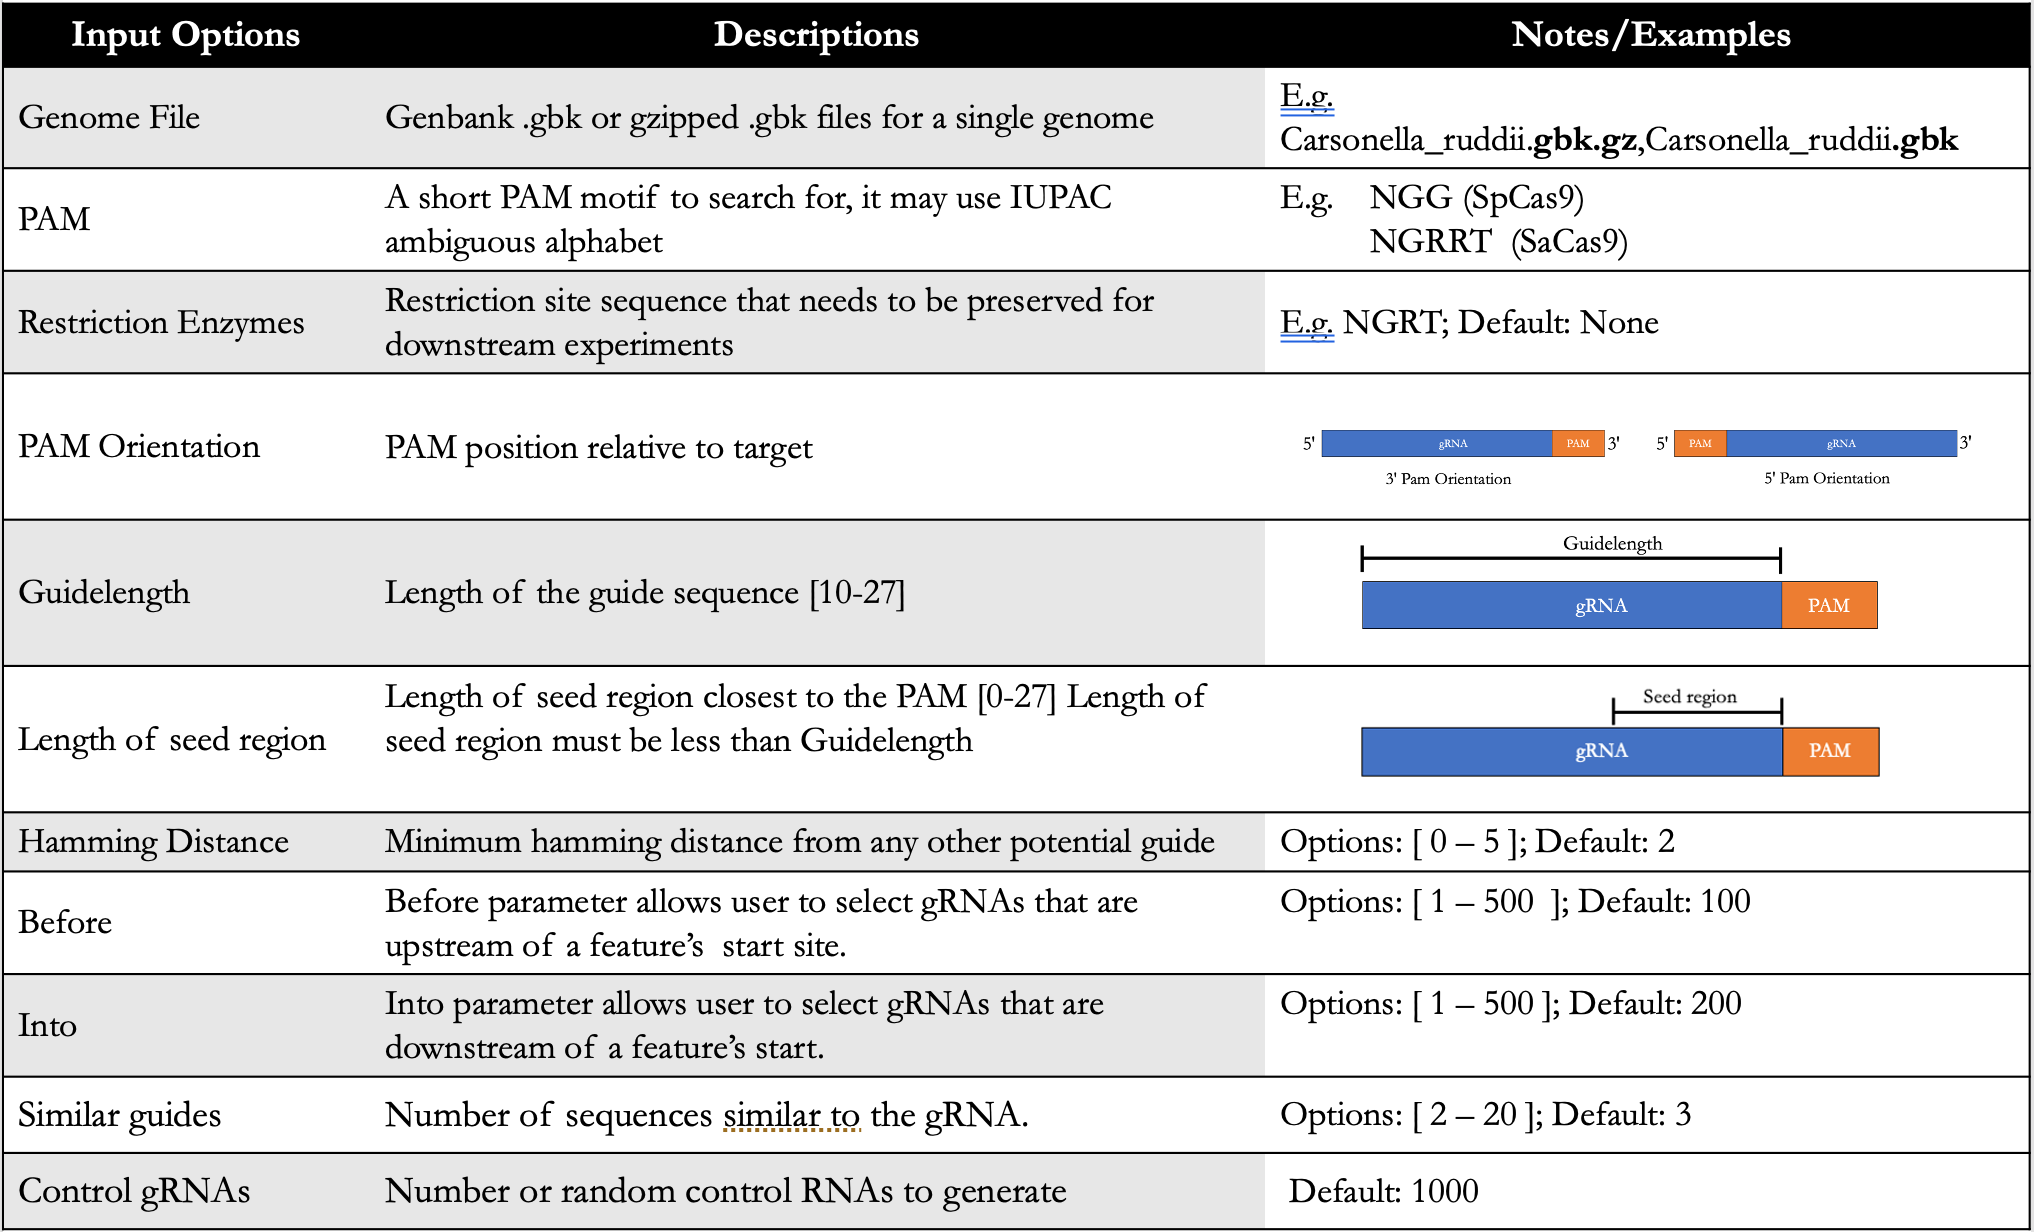
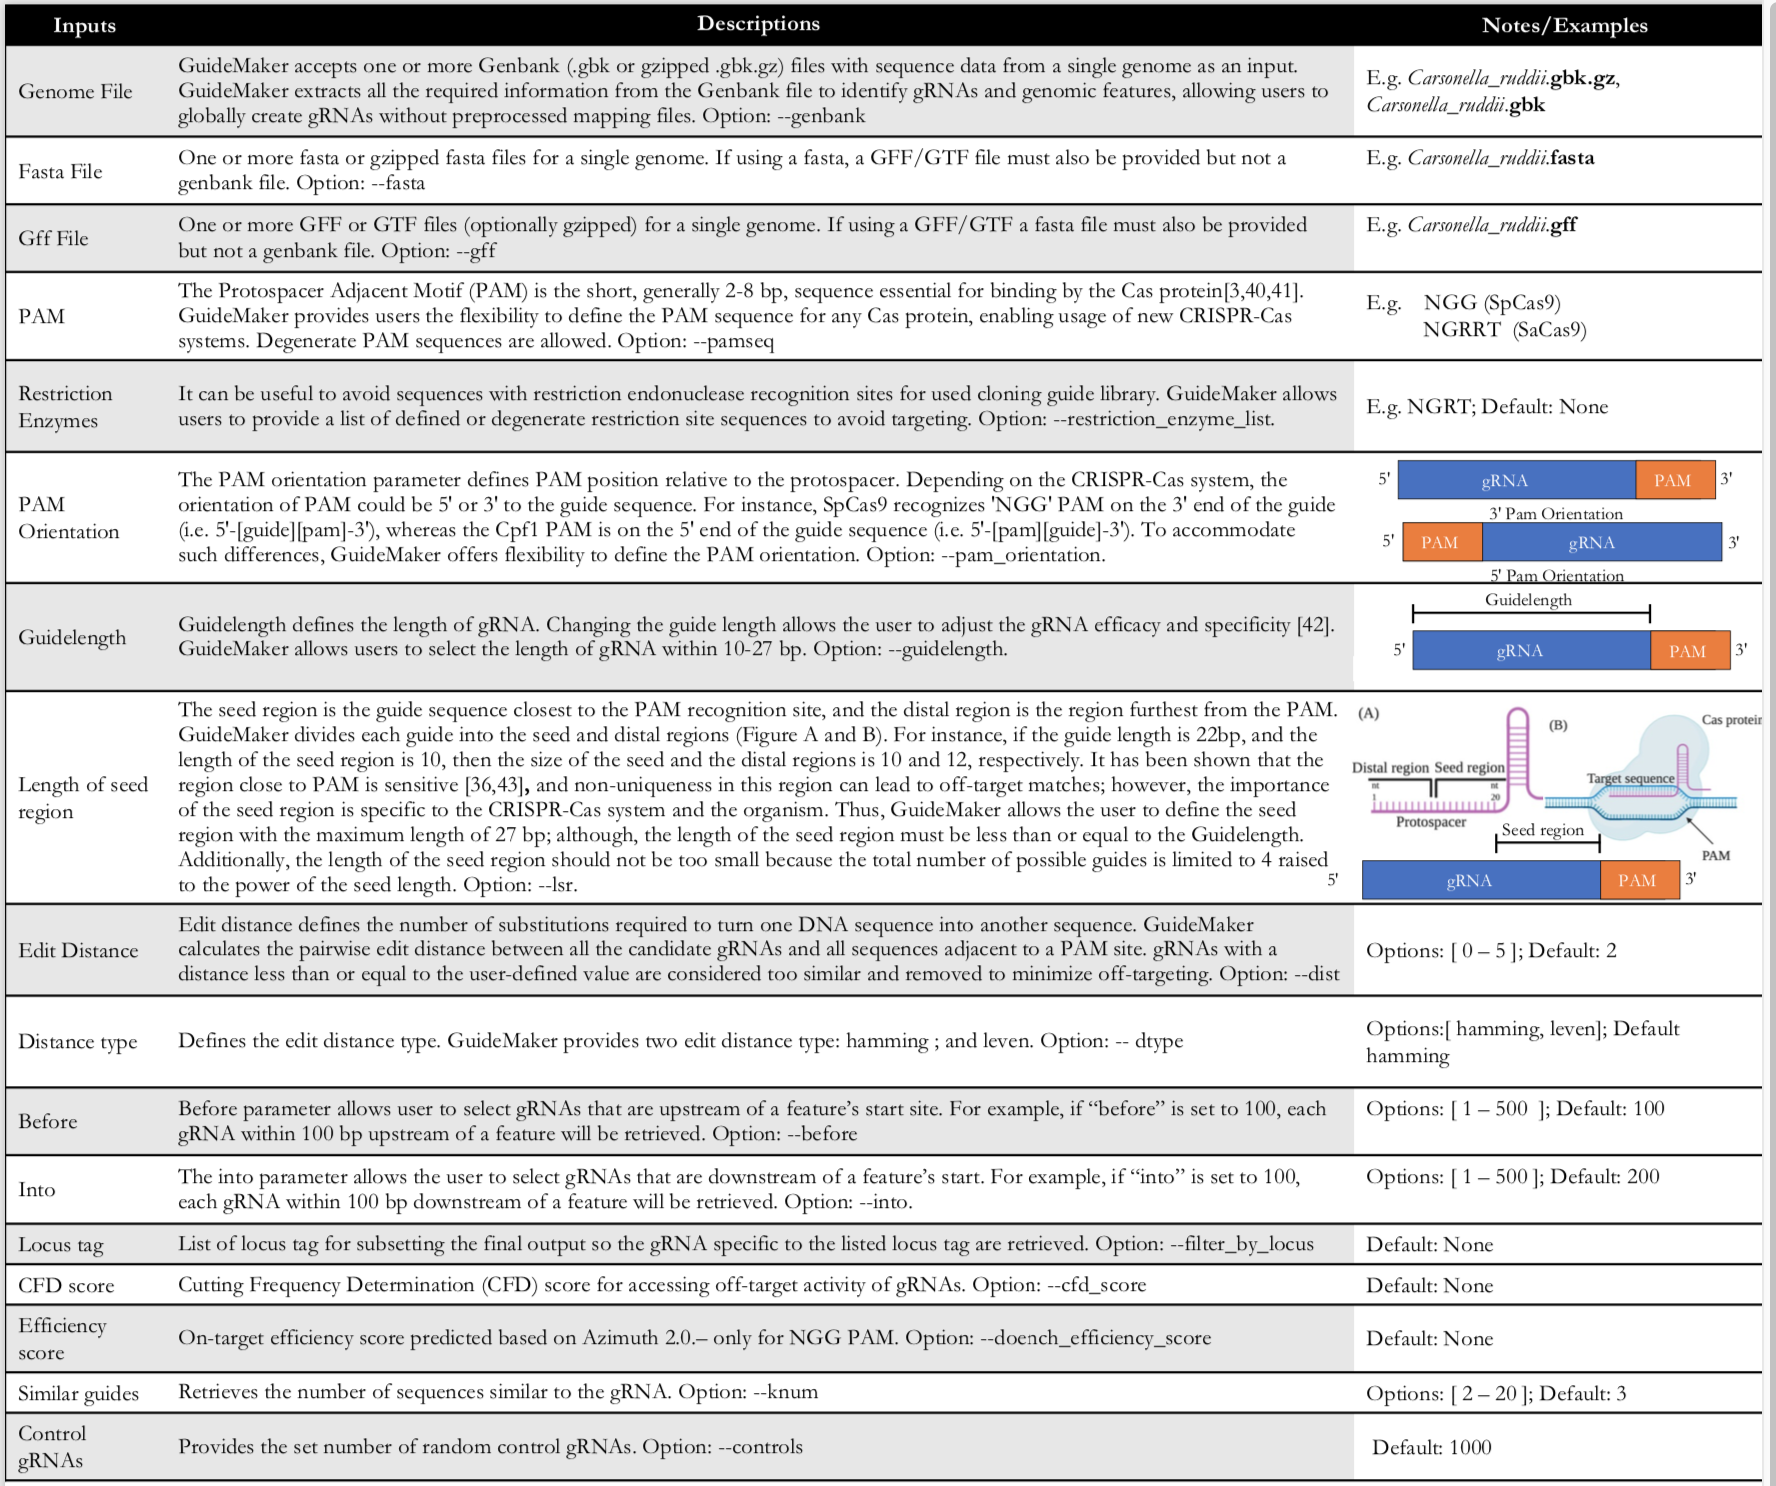
app updated to include cli options

Changed region(s): [[0.0, 0.0, 1.0, 1.0]]

diff --git a/guidemaker/data/app.py b/guidemaker/data/app.py
@@ -25,6 +25,7 @@ st.set_page_config(page_title=apptitle, page_icon=":eyeglasses:")
 st.sidebar.markdown("## Select Parameters to Design gRNAs")
 
 
+DATA_DIR = os.path.dirname(os.path.abspath(__file__))  # This is your Project Root
 
 # @contextmanager
 # def genome_connect(db_bytes):
@@ -52,6 +53,34 @@ def genome_connect(db_bytes):
     """Write input genome to local disk and clean after using."""
     fp = Path(str(uuid4()))
     with open('input.gbk', 'wb') as file:
+        for i in db_bytes:
+            fp = bytearray(i)
+            file.write(fp)
+    conn = str(fp)
+    try:
+        yield conn
+    finally:
+        pass
+
+@contextmanager
+def fasta_connect(db_bytes):
+    """Write input genome to local disk and clean after using."""
+    fp = Path(str(uuid4()))
+    with open('input.fasta', 'wb') as file:
+        for i in db_bytes:
+            fp = bytearray(i)
+            file.write(fp)
+    conn = str(fp)
+    try:
+        yield conn
+    finally:
+        pass
+
+@contextmanager
+def gff_connect(db_bytes):
+    """Write input genome to local disk and clean after using."""
+    fp = Path(str(uuid4()))
+    with open('input.gff', 'wb') as file:
         for i in db_bytes:
             fp = bytearray(i)
             file.write(fp)
@@ -159,11 +188,19 @@ def main(arglist: list = None):
 
     # Define input parameters and widgets
 
-    multiple_files = st.sidebar.file_uploader("Upload one or more Genome file [ .gbk, .gbk.gz]", type=[".gbk", ".gz"], accept_multiple_files=True)
-    genome = list( map(lambda x: x.getvalue(), multiple_files))
+    multiple_files_gbk = st.sidebar.file_uploader("Upload one or more Genome file [ .gbk, .gbk.gz]", type=[".gbk", ".gz",".gbff"], accept_multiple_files=True)
+    genome = list( map(lambda x: x.getvalue(), multiple_files_gbk))
+
+    multiple_files_fasta = st.sidebar.file_uploader("Upload one or more fasta file [ .fasta, .fasta.gz]", type=[".fasta", ".gz",".fna"], accept_multiple_files=True)
+    fasta = list( map(lambda x: x.getvalue(), multiple_files_fasta))
+
+
+    multiple_files_gff= st.sidebar.file_uploader("Upload gff/gtf file if you are using fasta [ .gff, .gtf]", type=[".gff", ".gtf"], accept_multiple_files=True)
+    gff = list( map(lambda x: x.getvalue(), multiple_files_gff))
 
     DemoGenome = st.sidebar.selectbox("OR Use Demo GBK",['Carsonella_ruddii.gbk.gz','Pseudomonas_aeruginosa.gbk.gz'])
-    demo = open(DemoGenome,"rb")
+    DemoGenomepath = os.path.join(DATA_DIR,DemoGenome)
+    demo = open(DemoGenomepath,"rb")
     #st.write("You selected this option ",xx)
 
   
@@ -205,6 +242,8 @@ def main(arglist: list = None):
             "--knum", str(knum),
             "--controls", str(controls),
             "--threads", str(2),
+            "--cfd_score",
+            "--doench_efficiency_score",
             "--restriction_enzyme_list"]
             scriptorun = args + restriction_enzyme_list
 
@@ -226,8 +265,35 @@ def main(arglist: list = None):
             "--knum", str(knum),
             "--controls", str(controls),
             "--threads", str(2),
+            "--cfd_score",
+            "--doench_efficiency_score",
             "--restriction_enzyme_list"]
             scriptorun = args + restriction_enzyme_list
+
+    if fasta and gff:
+        with fasta_connect(fasta):
+            with gff_connect(gff):
+                #st.write("Connection object:", conn)
+                args = ["guidemaker",
+                "-f", "input.fasta",
+                "-g", "input.gff",
+                "-p", pam,
+                "--guidelength", str(guidelength),
+                "--pam_orientation", pam_orientation,
+                "--lsr", str(lsr),
+                "--dtype", str("hamming"),
+                "--dist", str(dist),
+                "--outdir", sessionID,
+                "--log", logfilename,
+                "--into", str(into),
+                "--before", str(before),
+                "--knum", str(knum),
+                "--controls", str(controls),
+                "--threads", str(2),
+                "--cfd_score",
+                "--doench_efficiency_score",
+                "--restriction_enzyme_list"]
+                scriptorun = args + restriction_enzyme_list
 
     if(st.sidebar.button("SUBMIT")):
         # st.markdown("""🏃🏃🏃🏃🏃🏃🏃🏃""")
@@ -237,7 +303,7 @@ def main(arglist: list = None):
     if os.path.exists(sessionID):
 
         #source = pd.read_csv(os.path.join("./", sessionID,'targets.csv'))
-        source = pd.read_csv(os.path.join("/", sessionID, 'targets.csv'), low_memory=False)
+        source = pd.read_csv(os.path.join("./", sessionID, 'targets.csv'), low_memory=False)
 
         accession_list = list(set(source['Accession']))
         for accession in accession_list:
@@ -249,12 +315,12 @@ def main(arglist: list = None):
 
         # Targets
         target_tab = "✅ [Target Data](downloads/targets.csv)"
-        targets = pd.read_csv(os.path.join("/", sessionID, 'targets.csv'), low_memory=False)
+        targets = pd.read_csv(os.path.join("./", sessionID, 'targets.csv'), low_memory=False)
         targets.to_csv(str(DOWNLOADS_PATH / "targets.csv"), index=False)
 
         # Controls
         control_tab = "✅ [Control Data](downloads/controls.csv)"
-        controls = pd.read_csv(os.path.join("/", sessionID, 'controls.csv'), low_memory=False)
+        controls = pd.read_csv(os.path.join("./", sessionID, 'controls.csv'), low_memory=False)
         controls.to_csv(str(DOWNLOADS_PATH / "controls.csv"), index=False)
 
         # logs
@@ -293,6 +359,8 @@ def main(arglist: list = None):
         shutil.rmtree(sessionID, ignore_errors=True)
         os.remove(logfilename)
         os.remove('input.gbk')
+        os.remove('input.fasta')
+        os.remove('input.gff')
     except FileNotFoundError as e:
         pass
 
